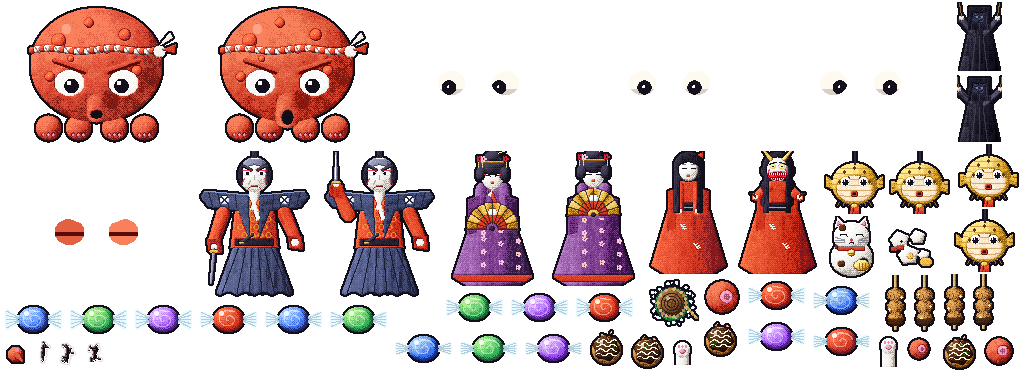
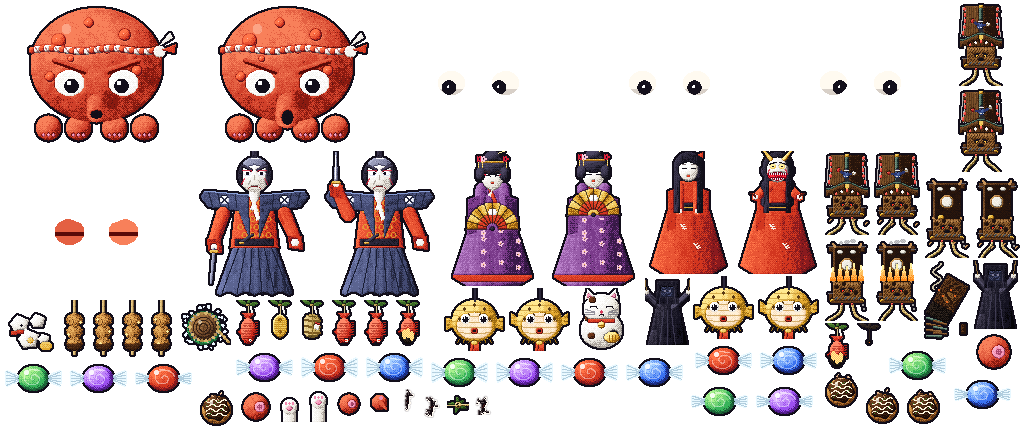
Stronger waves, steps 2-5 for Osaka: into the game, the kitcho charms in place of the uchiwa and the danjiri swung round its corner (accepted). The designs in Osaka's atlas, its skin (a straw rope, a koban, the sea bream that wakes and a rice bale in turn; the danjiri careers along at 20 px/s, other

diff --git a/src/game/enemies/chainSplitCart.js b/src/game/enemies/chainSplitCart.js
@@ -13,7 +13,8 @@
 // change the colours and sounds: chain { rope, char, light, text }, split { sound }, cart { debris, light }; a rope may
 // hang several things in turn (chain.frames, as Nagasaki's signal flags) and carry its fire further, to a line hung
 // close by (chain.cross: Kagoshima's ash). A cart's look may have a beast pulling it that is no yokai (cart.runner):
-// when the cart goes down it breaks free and runs off.
+// when the cart goes down it breaks free and runs off. A cart may drive faster (cart.speed) and swing round a corner
+// into a cross street (the wave's turn: Osaka's danjiri, yarimawashi).
 import { CART, CHAIN, DEPTH, SPLIT, SPLIT_ONE, VIEW } from '../../config.js';
 import { volley } from '../../difficulty.js';
 import { slow, DOWN, TAU, EXTRAS } from './shared.js';
@@ -243,14 +244,16 @@ export const chainSplitCart = {
   /**
    * Down its street (w.x; w.up: up it, as a ferry crossing against the scroll), or across from a screen edge (w.dir
    * -1/1 at w.y), like Sapporo's snowploughs. w.stop: where its way ends (a u going up or down, an x going across):
-   * it stops there, as a ferry at its pier, and fights on where it lies.
+   * it stops there, as a ferry at its pier, and fights on where it lies. w.turn: [u, dir], going down its street it
+   * swings round at the cross street at u into it, off to the left (-1) or the right (1), without slowing: the
+   * danjiri's yarimawashi, flinging shots off its outer side as it slews round.
    */
   spawnCart(w, base, look) {
     const s = this.scene;
     const horiz = typeof w.dir === 'number';
     const x = horiz ? (w.dir > 0 ? -16 : VIEW.width + 16) : w.x;
     const y = horiz ? w.y : -20;
-    const e = this.pool.spawn(`${look.anim}0_0`, x, y, { ...base, horiz, dir: horiz ? w.dir : w.up ? -1 : 1, stop: w.stop ?? null, docked: false, wreck: look.wreck, timer: 1.4, cartStage: 0, flee: w.flee ?? null });
+    const e = this.pool.spawn(`${look.anim}0_0`, x, y, { ...base, horiz, dir: horiz ? w.dir : w.up ? -1 : 1, stop: w.stop ?? null, docked: false, wreck: look.wreck, timer: 1.4, cartStage: 0, flee: w.flee ?? null, turn: horiz || w.up ? null : w.turn ?? null, swing: null });
     e.u = s.parallax.stripU(y);
     e.look = look;
     e.play(`${look.anim}0`);
@@ -265,7 +268,14 @@ export const chainSplitCart = {
     if (st > e.cartStage) this.cartBreaks(e, st);
     // a wheel gone: it limps along slower, lurching
     const limp = e.cartStage >= 2;
-    const v = CART.speed * (limp ? 0.6 : 1) * (limp ? 0.75 + Math.abs(Math.sin(e.age * 4)) * 0.5 : 1);
+    const v = (L.speed ?? CART.speed) * (limp ? 0.6 : 1) * (limp ? 0.75 + Math.abs(Math.sin(e.age * 4)) * 0.5 : 1);
+    if (e.turn && !e.swing && e.u - e.turn[0] <= CART.swing.r) {
+      // the corner: it swings round into the cross street
+      e.swing = { p: 0, x: e.x, u: e.turn[0] + CART.swing.r, dir: e.turn[1], fling: 0 };
+      e.turn = null;
+      s.sfx.creak?.();
+    }
+    if (e.swing) return this.cartSwing(e, dt, v, b);
     if (!e.docked) {
       if (e.horiz) e.x += e.dir * v * dt;
       else e.u -= e.dir * v * dt;
@@ -297,6 +307,39 @@ export const chainSplitCart = {
       const [wx, wy] = e.horiz ? [e.x, e.y + side * 8] : [e.x + side * 8, e.y + 4];
       for (let i = 0; i < n; i++) b.fire(wx, wy, off + (i / n) * TAU, slow);
     }
+  },
+
+  /**
+   * The swing round the corner: a quarter turn about the corner's inner side, the cart slewing past square and back,
+   * its wheels skidding (dust, sparks), the street shaking; shots flung off its outer side as it goes round.
+   */
+  cartSwing(e, dt, v, b) {
+    const s = this.scene;
+    const W = e.swing;
+    const { r, over } = CART.swing;
+    W.p = Math.min(1, W.p + (v * dt) / ((Math.PI / 2) * r));
+    const a = (W.p * Math.PI) / 2;
+    e.x = W.x + W.dir * r * (1 - Math.cos(a));
+    e.u = W.u - r * Math.sin(a);
+    e.y = s.parallax.screenY(e.u);
+    // past square and back (it swings wide, its back end sliding out)
+    const k = W.p + Math.sin(W.p * Math.PI) * over;
+    e.setRotation(-W.dir * k * (Math.PI / 2));
+    if (Math.random() < dt * 30) s.fx.smoke(e.x - W.dir * 10 * Math.cos(a), e.y + 8, 1, 1, true);
+    if (Math.random() < dt * 12) s.fx.spark(e.x - W.dir * 8, e.y + 6, 0xffd080);
+    // the shots flung off its outer side, round the turn
+    if (this.canFire(e) && W.p * CART.swing.shots >= W.fling + 1) {
+      W.fling++;
+      const out = Math.atan2(Math.sin(a), -W.dir * Math.cos(a)); // (away from the corner it swings round)
+      for (const d of [-0.25, 0, 0.25]) b.fire(e.x, e.y, out + d + (W.fling % 2) * 0.12, slow);
+    }
+    if (W.p < 1) return;
+    // round: on along the cross street
+    e.swing = null;
+    e.horiz = true;
+    e.dir = W.dir;
+    e.setRotation(-e.dir * Math.PI / 2);
+    s.cameras.main.shake(120, 0.003);
   },
 
   /** The cart breaks up a stage further: bits fly, it creaks, and it looks it. */

diff --git a/src/config.js b/src/config.js
@@ -146,12 +146,14 @@ export const ENEMIES = {
  *   (not by a bomb) its two sacs (`one`) fly out at `flyOut` px/s, take aim for `aim` s and dive at `dive` px/s;
  *   a sac shot down spills `roe` grains of roe worth `roePts` each.
  * CART: drives its street at `speed` px/s, a fan of `spokes` shots every `every` s; it breaks up below each of
- *   `stages` (share of its HP): the blind torn off, a wheel gone (it limps), the roof on fire.
+ *   `stages` (share of its HP): the blind torn off, a wheel gone (it limps), the roof on fire. Swung round a corner
+ *   (a wave's turn): a quarter circle of radius `swing.r`, slewing `swing.over` past square and back, flinging
+ *   `swing.shots` handfuls of three off its outer side as it goes round.
  */
 export const CHAIN = { n: 6, every: 2.6, step: 0.11, bonus: 60, cross: 9, sag: 3 };
 export const SPLIT = { fall: 24, sway: 18, every: 1.7, flyOut: 70, aim: 0.3, dive: 210, roe: 6, roePts: 20 };
 export const SPLIT_ONE = { hp: 9, weight: 1, score: 100, radius: 5, explosion: 's' };
-export const CART = { speed: 14, every: 2.2, spokes: 7, stages: [0.7, 0.4, 0.15] };
+export const CART = { speed: 14, every: 2.2, spokes: 7, stages: [0.7, 0.4, 0.15], swing: { r: 8, over: 0.2, shots: 4 } };
 
 // Minibosses' HP (the wave's own `hp` wins); below `phase2` of its life each one breaks into its second phase
 export const HEAVY = { hp: { tanuki: 750, manta: 780, raiju: 800, wani: 820, heikegani: 820, kasa: 820, taiyaki: 980, usagi: 860, nekomata: 960, yatai: 960 }, phase2: 0.5 };

diff --git a/src/game/enemyArt.js b/src/game/enemyArt.js
@@ -153,7 +153,7 @@ export const CITY_ANIMS = {
   ng_manju: [four('ng_manju'), 4], ng_manju_one: [['ng_manju_one_0', 'ng_manju_one_1'], 6],
   k_iga: [four('k_iga'), 4], k_iga_one: [['k_iga_one_0', 'k_iga_one_1'], 6],
   sp_jaga: [four('sp_jaga'), 4], sp_jaga_one: [['sp_jaga_one_0', 'sp_jaga_one_1'], 6],
-  ...Object.fromEntries([0, 1, 2, 3].flatMap((st) => [[`o_ferry_${st}`, [[`o_ferry_${st}_0`, `o_ferry_${st}_1`], 4]], [`ky_hoko_${st}`, [[`ky_hoko_${st}_0`, `ky_hoko_${st}_1`], 6]], [`ok_gyu_${st}`, [[`ok_gyu_${st}_0`, `ok_gyu_${st}_1`], 3]], [`ng_kujira_${st}`, [[`ng_kujira_${st}_0`, `ng_kujira_${st}_1`], 5]], [`k_hakucho_${st}`, [[`k_hakucho_${st}_0`, `k_hakucho_${st}_1`], 4]], [`kg_imo_${st}`, [[`kg_imo_${st}_0`, `kg_imo_${st}_1`], 4]]])),
+  ...Object.fromEntries([0, 1, 2, 3].flatMap((st) => [[`o_ferry_${st}`, [[`o_ferry_${st}_0`, `o_ferry_${st}_1`], 4]], [`ky_hoko_${st}`, [[`ky_hoko_${st}_0`, `ky_hoko_${st}_1`], 6]], [`ok_gyu_${st}`, [[`ok_gyu_${st}_0`, `ok_gyu_${st}_1`], 3]], [`ng_kujira_${st}`, [[`ng_kujira_${st}_0`, `ng_kujira_${st}_1`], 5]], [`k_hakucho_${st}`, [[`k_hakucho_${st}_0`, `k_hakucho_${st}_1`], 4]], [`kg_imo_${st}`, [[`kg_imo_${st}_0`, `kg_imo_${st}_1`], 4]], [`os_danjiri_${st}`, [[`os_danjiri_${st}_0`, `os_danjiri_${st}_1`], 5]]])),
   // Fukuoka
   f_tobiume: [four('f_tobiume'), 12], f_goma: [four('f_goma'), 16], f_fugu: [four('f_fugu'), 3],
   f_mentaiko: [four('f_mentaiko'), 5], f_mentaiko_one: [['f_mentaiko_one_0', 'f_mentaiko_one_1'], 6],

diff --git a/src/game/skins.js b/src/game/skins.js
@@ -92,6 +92,8 @@ export const SKINS = {
     carrier: { frame: 'ame_{c}_0', anim: 'ame_{c}' },
     heavy: { frame: 'ningyo_0', kind: 'bunraku' },
     turret: { base: 'neko_base', head: 'neko_paw_', wreck: 'neko_wreck', beckon: true },
+    chain: { frame: 'os_kitcho_1', frames: ['os_kitcho_1', 'os_kitcho_0', 'os_kitcho_2'], eye: 'os_kitcho_eye_', lit: 'os_kitcho_lit_', burnt: 'os_kitcho_burnt', pole: 'os_pole', rope: 0xb8a060 }, // kitchō charms of Tōka Ebisu on a straw rope over Shinsekai (enemies/chainSplitCart.js); no pair: the duos
+    cart: { anim: 'os_danjiri_', wreck: 'os_danjiri_wreck', debris: 0x6a4a30, light: 0xff8a30, speed: 20 }, // a danjiri careering down a street of Shinsekai, swung round its corners (yarimawashi: the wave's turn)
   },
   // Beppu: eggs that hatch into little oni, pots whose shots bounce off the walls, monkeys that steal
   // power, steam nozzles puffing clouds that swell, plus geysers and steam clouds as the environment

diff --git a/src/game/Enemies.js b/src/game/Enemies.js
@@ -497,6 +497,7 @@ export class Enemies {
       s.fx.explode(e.x, e.y, e.def.explosion, e.u, false, e.bits);
       const wr = this.wrecks.spawn(e.wreck ?? this.skin.turret.wreck, e.x, e.y, { u: e.u });
       if (e.horiz) wr.setRotation(-e.dir * Math.PI / 2);
+      else if (e.swing) wr.setRotation(e.rotation); // (a cart gone down as it swung round a corner)
     } else s.fx.explode(e.x, e.y, big ? 'm' : e.def.explosion, null, false, e.bits); // (a boss's body stays a moment: goDown)
     if (e.type === 'carrier') s.spawnPickup(e.color, e.x, e.y, -40);
     if (e.type === 'masu') {

diff --git a/docs/plan-silniejsze-fale.md b/docs/plan-silniejsze-fale.md
@@ -175,3 +175,4 @@ Bot nie zestrzeliwuje ich częściej, tylko odlatują z mniejszym zapasem: walki
 | 2026-11-19 | Claude | 1 (Kagoshima) | Projekty grafiki do akceptacji, `tools/art/kagoshima/newfoes.mjs`: hoshi-daikon, rzodkwie suszone parami okrakiem na linkach bambusowego rusztowania (daikon yagura) nad drogą Sakurajimy przy polach; na zmianę para jeszcze biała i pękata i para pomarszczona, płowa, przyprószona popiołem z wulkanu; budząca się otwiera czerwone oczy i rozdziawia usta (strzela); płonąca, zostaje zwęglony węzeł liści. Zamiast wozu z dzbanami czarnego octu (dzban octu to już działko Kagoshimy) propozycja: wózek ishi-yaki imo, bataty (satsuma-imo) pieczone na kamieniach, toczący się sam ulicą Tenmonkanu: dwukołowy wózek, dyszle bez nikogo, żelazny piec z odsuniętą pokrywą (kamienie, bataty w fioletowej skórce), dwa otwory pokrywy łypią, szpara się szczerzy, z rury dym, czerwony lampion; rozpad: rura przekrzywiona i bucha (czerwone oczy), urwane koło, bataty się wysypują, wózek płonie; wrak przewrócony na bok, kamienie i zwęglone bataty na ulicy. Jeszcze nie w atlasie ani w grze. | Wóz do decyzji: wózek z batatami zamiast dzbanów octu. |
 | 2026-11-19 | Claude | 2-5 (Kagoshima) | Przyjęte: rzodkwie i wózek z batatami zamiast dzbanów octu. Grafika w atlasie `bg/stage4`, skórka (konopna linka, para świeża i suszona na zmianę; `chain.cross`: popiół niesie ogień na linkę zawieszoną blisko, 16 px zamiast 9). 2 bambusowe rusztowania po 2 linki rzodkwi nad drogą Sakurajimy przy polach z rzodkwią (142 i 142,4 s, 148,6 i 149 s; słupki w polu i za drogą); zapalona linka zapala drugą linkę tego samego rusztowania. Wózek z batatami w 15 s ulicą x 150 w Tenmonkanie. Bez pary. Popcorn 74% → 68%: bez pary (zgodnie z D4) do 45% nie da się zejść, a bomby i tak pękają na dwie połówki. Raijū odlatuje po 36 s walki zamiast 45 (inaczej jego najdłuższe walki wpadałyby na rusztowania; pól z rzodkwią nie da się przesunąć). Bot (4 bronie, moc 4), trafienia przed bossem na przelot: normalny 6,8 → 4,8, łatwy 0,8 → 1,5 (w granicach rozrzutu); linki zestrzelone zawsze, wózek 7 razy na 8. Test: kagoshimaWaves. | Do decyzji: czy zbić popcorn bardziej (więcej rusztowań lub wózków). |
 | 2026-11-20 | Claude | 1 (Osaka) | Projekty grafiki do akceptacji, `tools/art/osaka/newfoes.mjs`. Zamiast wachlarzy uchiwa (nurkujący wróg Tokio już jest wachlarzem uchiwa) sznur z talizmanami kitchō z Tōka Ebisu w Imamiya Ebisu tuż przy Shinsekai: na słomianej linie z gałązkami bambusowej trawy (fukuzasa) na zmianę czerwony karp morski (tai), złoty koban i bela ryżu z czerwono-białą metką; budzi się tai (oko się toczy, rozdziawia pysk: te strzelają); jeden zajmuje się ogniem; zostaje zwęglony sznurek z gałązką; słup: ścięty bambus z kępą liści. Danjiri według planu: rzeźbiony drewniany wóz pędzący sam ulicą, wielki wygięty dach z zieloną miedzią, na nim tańczący cieśla z wachlarzem w każdej ręce, czerwone lampiony pod okapem, łukowy szczyt z przodu, rzeźbiony front z płonącymi oczami, długie liny wloką się przed nim; rozpad: odpadają rzeźby (świeci na czerwono), zerwany dach (w środku bęben i gong) i brak koła, ogień; wrak w poprzek ulicy. Bez pary (D4). Ani w atlasie, ani w grze. | Do decyzji: kitchō zamiast uchiwa. Danjiri to trzeci wóz festiwalowy (po hoko z Kioto i wielorybie z Nagasaki), choć wygląda inaczej. Skręt na skrzyżowaniu jak w Kishiwadzie (yarimawashi) wymaga małej zmiany kodu wozu (dziś jedzie tylko prosto): do decyzji. |
+| 2026-11-20 | Claude | 2-5 (Osaka) | Przyjęte: kitchō zamiast uchiwa, danjiri ze skrętem. Grafika w atlasie `bg/stage5`, skórka (słomiana lina; koban, budzący się tai i bela ryżu na zmianę; danjiri szybszy od innych wozów: `cart.speed` 20 zamiast 14). Skręt wozu (wspólny kod, `CART.swing`): fala z `turn: [u, kierunek]` jedzie w dół ulicy i na przecznicy u zarzuca się o ćwierć obrotu (z przechyłem za kąt prosty i z powrotem, kurz i iskry spod kół), w zakręcie wyrzuca 4 garście po 3 pociski na zewnątrz łuku, potem jedzie przecznicą w bok; wrak zestrzelonego w zakręcie leży tak, jak wóz stał. Danjiri w 74 s ulicą x 150 w Umedzie, skręt w lewo w przecznicę u 2600 (przez Midōsuji). 3 sznury kitchō nad alejami Shinsekai (88,7 s nad x 90, 93,5 s nad x 150, 99,5 s nad x 90; słupy między ulicami, z dala od Tsūtenkaku). Zamiast 3 fal popcornu (74, 87/87,5, 97/98,5 s). Bez pary (D4: duety manzai). Popcorn 67% → 61%. Bot (4 bronie, moc 4), trafienia przed bossem na przelot: normalny 9,0 → 7,8, łatwy 9,3 → 6,8 (w granicach rozrzutu); sznury i danjiri zestrzelone zawsze, danjiri po 4-8 s (zawsze już po skręcie). Test: osakaWaves. | Jak w Kagoshimie: bez pary do 45% nie zejdzie. |
